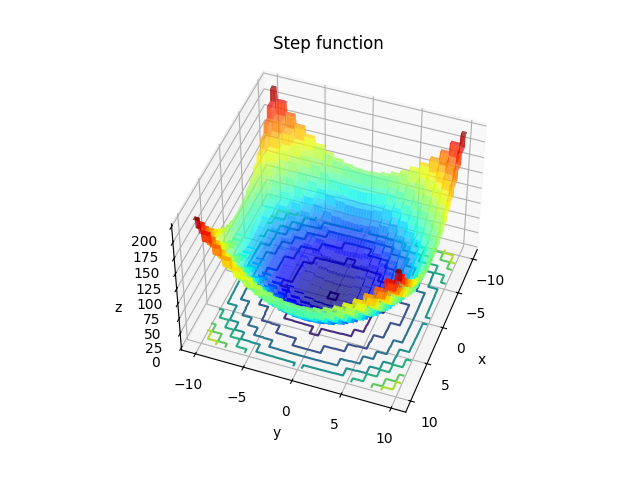
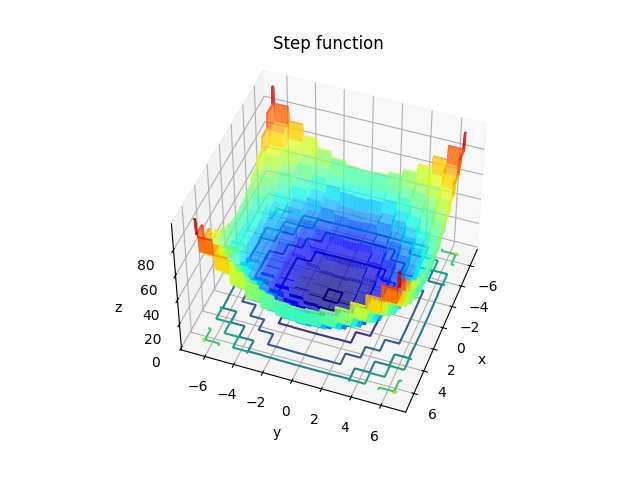
replot

diff --git a/function3d/main.py b/function3d/main.py
@@ -4,7 +4,7 @@ from mpl_toolkits.mplot3d import Axes3D
 import test_function as tfn
 import sys
 
-search_range = {1:[-32.768/5, 32.768/5], 2:[-5.12, 5.12], 3:[-20.0/2, 20.0/2], 4:[-10.0, 10.0], 5:[-10.0, 10.0], 6:[0.0, np.pi], 7:[-500,500], 8:[-100,100], 9:[-5.12, 5.12], 10:[-100/10,100/10]}
+search_range = {1:[-32.768/5, 32.768/5], 2:[-5.12, 5.12], 3:[-20.0/2, 20.0/2], 4:[-10.0, 10.0], 5:[-10.0, 10.0], 6:[0.0, np.pi], 7:[-500,500], 8:[-100,100], 9:[-5.12, 5.12], 10:[-100/15,100/15]}
 func_str_table = {1:"Ackley", 2:"Rastrigin", 3:"HappyCat", 4:"Rosenbrock", 5:"Zakharov", 6:"Michalewicz", 7:"Schwefel", 8:"BentCigar", 9:"DropWave", 10:"Step"}
 
 fn = int(sys.argv[1])
